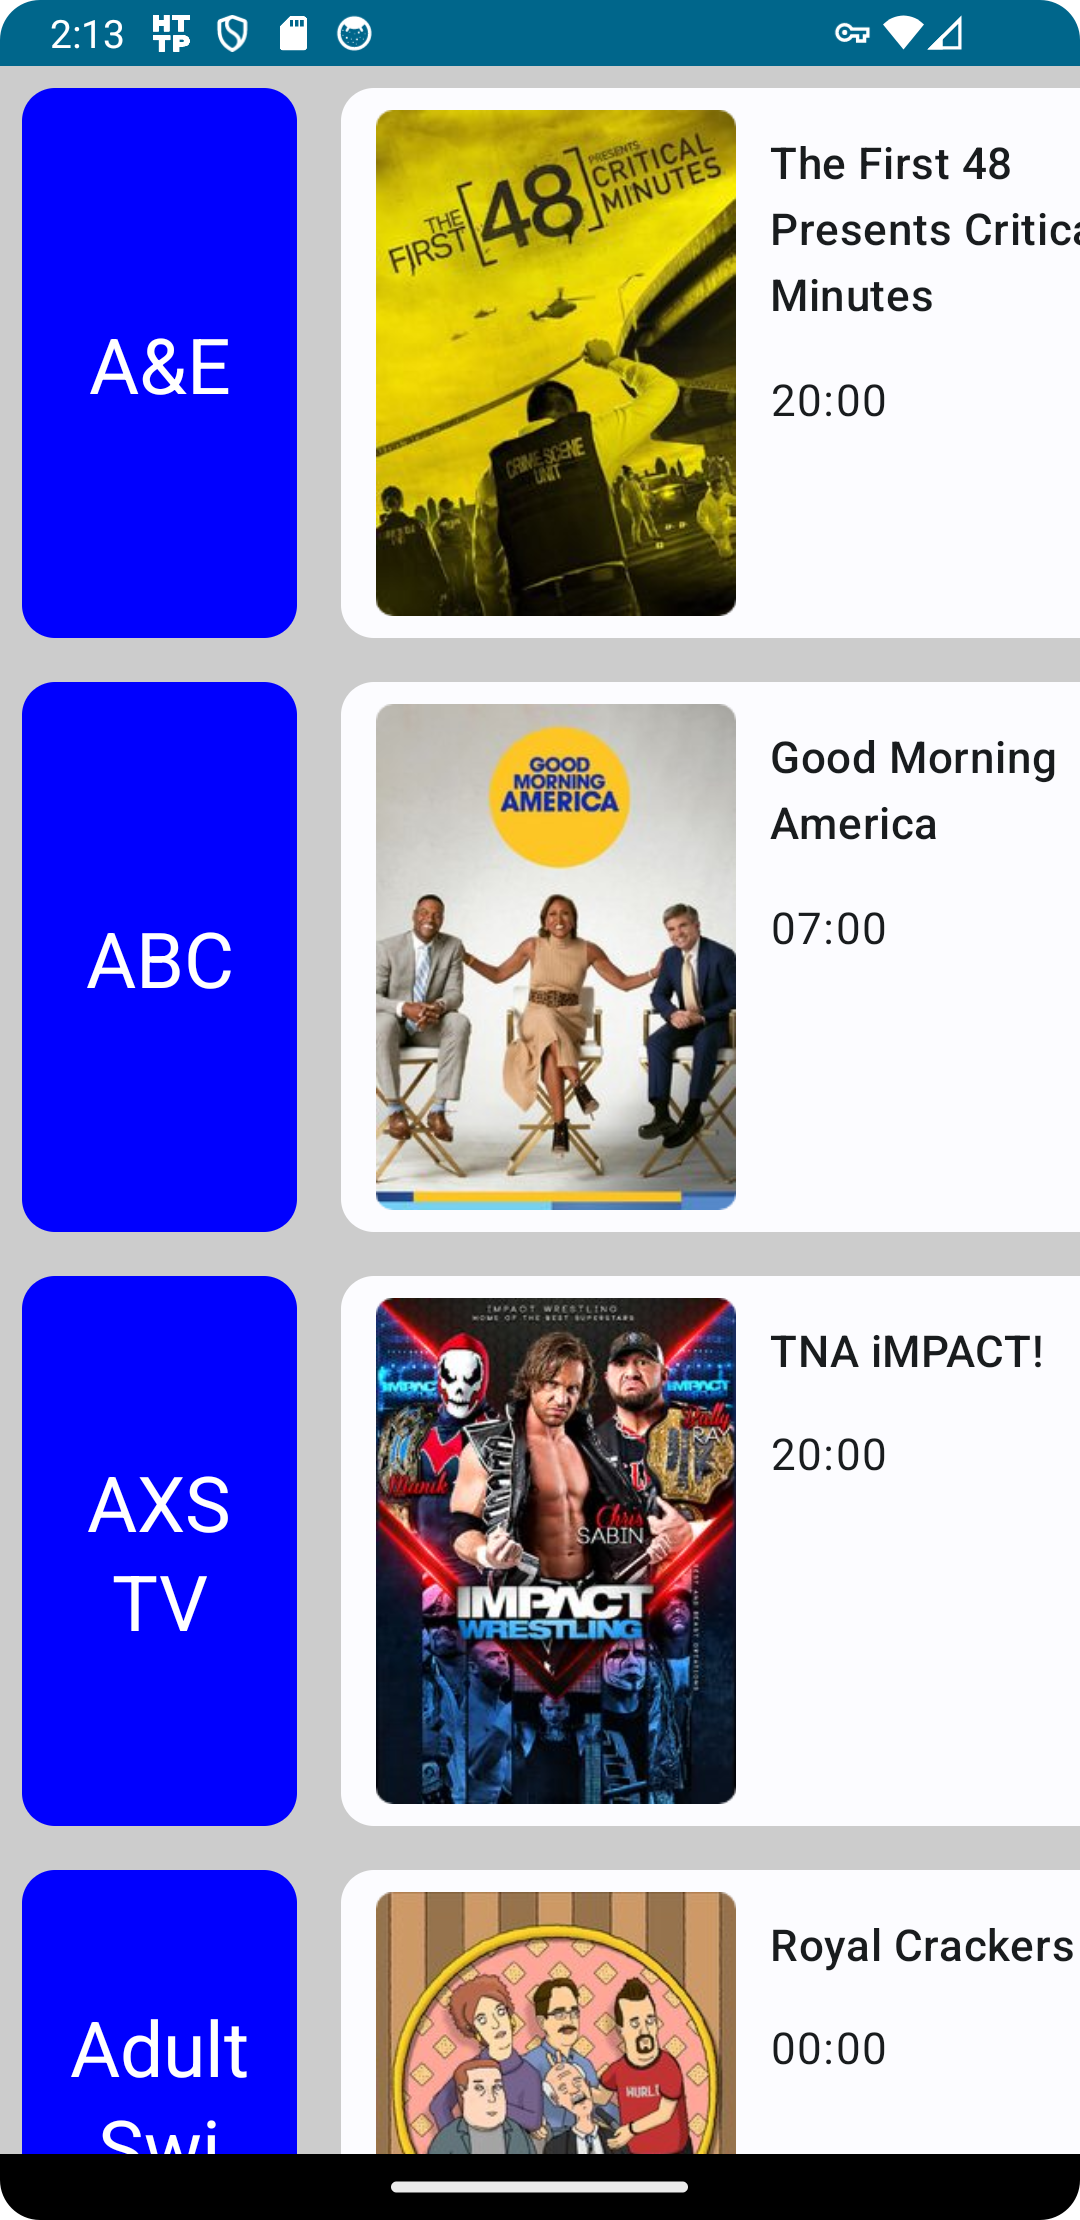
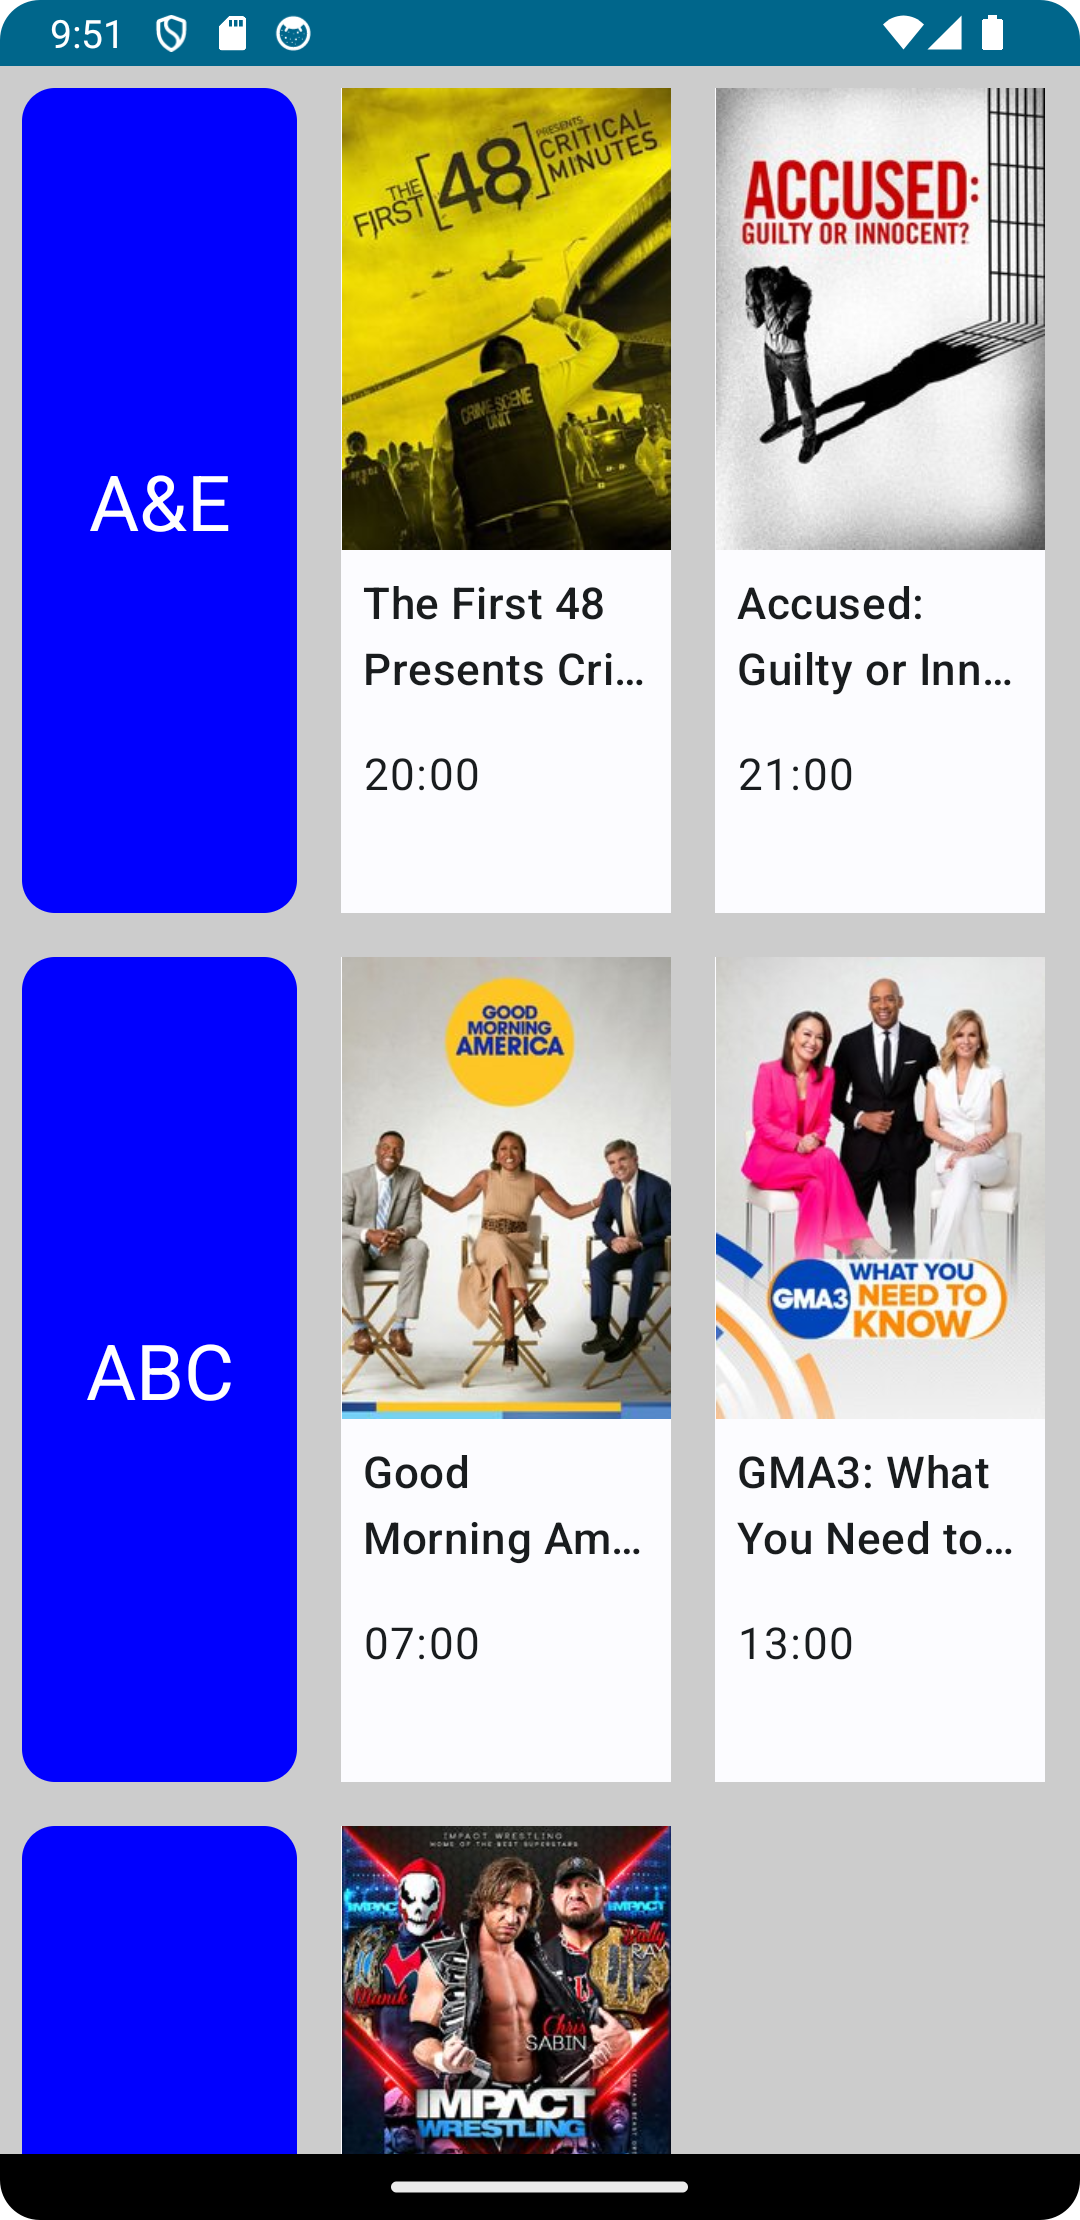
Update UI

diff --git a/app/src/main/java/com/example/tvmaze/ui/main/MainScreen.kt b/app/src/main/java/com/example/tvmaze/ui/main/MainScreen.kt
@@ -7,6 +7,7 @@ import androidx.compose.foundation.layout.Arrangement
 import androidx.compose.foundation.layout.Box
 import androidx.compose.foundation.layout.Column
 import androidx.compose.foundation.layout.Row
+import androidx.compose.foundation.layout.fillMaxHeight
 import androidx.compose.foundation.layout.fillMaxSize
 import androidx.compose.foundation.layout.height
 import androidx.compose.foundation.layout.padding
@@ -17,6 +18,7 @@ import androidx.compose.foundation.layout.wrapContentWidth
 import androidx.compose.foundation.lazy.LazyColumn
 import androidx.compose.foundation.lazy.LazyRow
 import androidx.compose.foundation.lazy.items
+import androidx.compose.foundation.shape.CutCornerShape
 import androidx.compose.material3.AlertDialog
 import androidx.compose.material3.Card
 import androidx.compose.material3.CardDefaults
@@ -36,13 +38,13 @@ import androidx.compose.ui.graphics.Color
 import androidx.compose.ui.platform.LocalContext
 import androidx.compose.ui.res.stringResource
 import androidx.compose.ui.text.style.TextAlign
+import androidx.compose.ui.text.style.TextOverflow
 import androidx.compose.ui.tooling.preview.Preview
 import androidx.compose.ui.unit.dp
 import androidx.core.text.HtmlCompat
 import androidx.lifecycle.viewmodel.compose.viewModel
 import com.bumptech.glide.integration.compose.ExperimentalGlideComposeApi
 import com.bumptech.glide.integration.compose.GlideImage
-import com.bumptech.glide.load.resource.bitmap.RoundedCorners
 import com.example.tvmaze.R
 import com.example.tvmaze.model.MainScreenState
 import com.example.tvmaze.model.TvNetwork
@@ -115,7 +117,7 @@ fun NetworkCell(tvNetwork: TvNetwork) {
         ),
         modifier = Modifier
             .padding(8.dp)
-            .height(200.dp)
+            .height(300.dp)
             .width(100.dp)
     ) {
         Box(contentAlignment = Alignment.Center, modifier = Modifier
@@ -144,6 +146,7 @@ fun ShowCell(show: TvShow) {
     }
 
     Card(
+        shape = CutCornerShape(0.dp),
         onClick = {
             openDialog.value = Pair(true, show)
         },
@@ -152,32 +155,28 @@ fun ShowCell(show: TvShow) {
         ),
         modifier = Modifier
             .padding(8.dp)
-            .height(200.dp)
-            .width(300.dp)
+            .height(300.dp)
+            .width(120.dp)
     ) {
-        Row(modifier = Modifier
-            .padding(8.dp)
-            .fillMaxSize()) {
+        Column(modifier = Modifier.fillMaxHeight()) {
             GlideImage(
                 model = show.image?.medium,
                 contentDescription = show.name.orEmpty(),
-                modifier = Modifier.size(width = 140.dp, height = 184.dp)
-            ) {
-                it.transform(RoundedCorners(10))
-            }
-            Column {
-                Text(
-                    text = show.name.orEmpty(),
-                    style = MaterialTheme.typography.titleMedium,
-                    textAlign = TextAlign.Start,
-                    modifier = Modifier.padding(8.dp)
-                )
-                Text(
-                    text = show.schedule?.time.orEmpty(),
-                    textAlign = TextAlign.Start,
-                    modifier = Modifier.padding(8.dp)
-                )
-            }
+                modifier = Modifier.size(168.dp)
+            )
+            Text(
+                text = show.name.orEmpty(),
+                style = MaterialTheme.typography.titleMedium,
+                textAlign = TextAlign.Start,
+                maxLines = 2,
+                overflow = TextOverflow.Ellipsis,
+                modifier = Modifier.padding(8.dp)
+            )
+            Text(
+                text = show.schedule?.time.orEmpty(),
+                textAlign = TextAlign.Start,
+                modifier = Modifier.padding(8.dp)
+            )
         }
     }
 }
